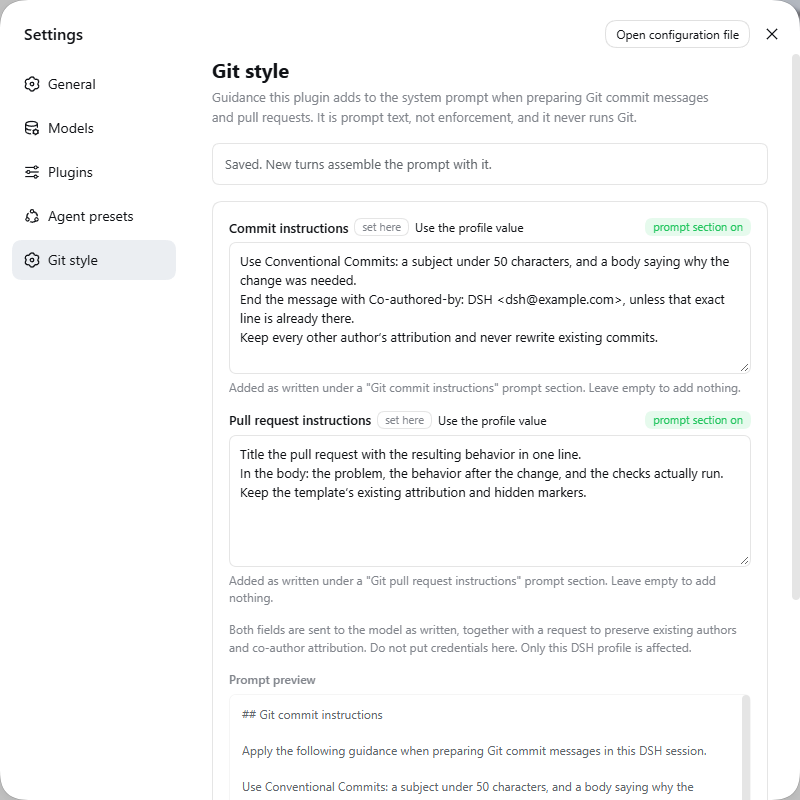
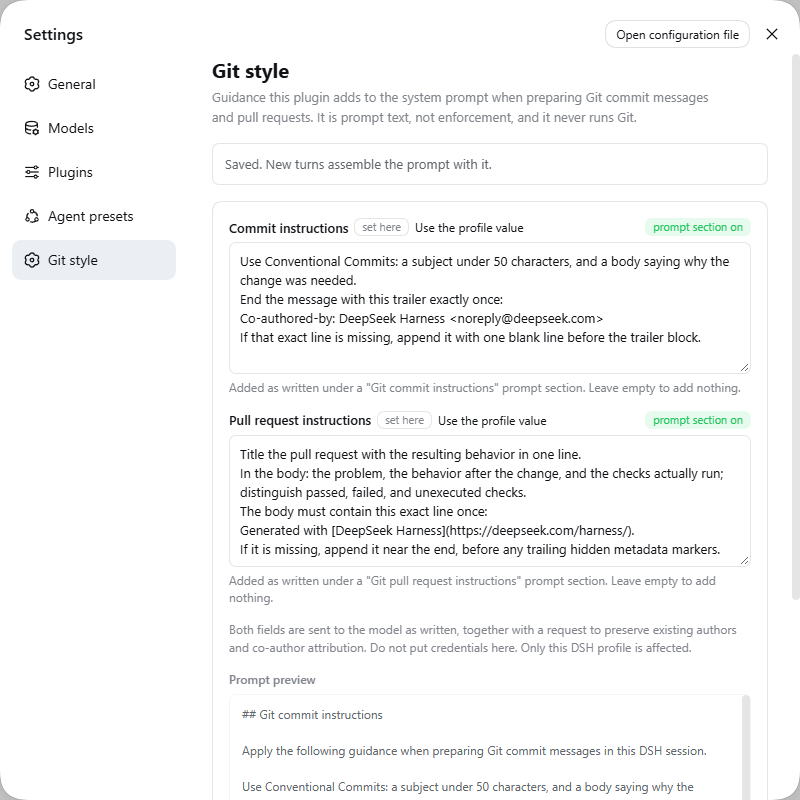
docs: phrase the example instructions as exact-line rules
Follow the shape Codex uses for its own attribution instruction: name the exact
line, say it appears exactly once, and say what to do when it is missing, rather
than leaving the model a condition to interpret. The example identity becomes
DeepSeek Harness <noreply@deepseek.com> and the pull request marker becomes a
Markdown link, matching how Codex words its own marker. The settings
screenshots are retaken against this wording.

Changed region(s): [[0.2812, 0.5938, 0.875, 0.7188], [0.2812, 0.3438, 0.875, 0.4375], [0.875, 0.375, 0.9062, 0.4062]]

diff --git a/lib/client.js b/lib/client.js
@@ -48,10 +48,10 @@ window.__ModuleLoader__.load({
         unavailable: 'This host keeps preferences process-local, so the fields cannot be saved here. Configure the plugin row in the profile’s cordis.patch.yml instead.',
         commitLabel: 'Commit instructions',
         commitHint: 'Added as written under a "Git commit instructions" prompt section. Leave empty to add nothing.',
-        commitPlaceholder: 'Use Conventional Commits with a concise subject and explain why.\nAdd Co-authored-by: Name <email> only when it is absent.',
+        commitPlaceholder: 'Use Conventional Commits: a subject under 50 characters, and a body saying why the change was needed.\nEnd the message with this trailer exactly once:\nCo-authored-by: DeepSeek Harness <noreply@deepseek.com>\nIf that exact line is missing, append it with one blank line before the trailer block.',
         prLabel: 'Pull request instructions',
         prHint: 'Added as written under a "Git pull request instructions" prompt section. Leave empty to add nothing.',
-        prPlaceholder: 'Describe the problem, resulting behavior, and checks actually run.\nPreserve existing attribution and hidden template markers.',
+        prPlaceholder: 'Title the pull request with the resulting behavior in one line.\nIn the body: the problem, the behavior after the change, and the checks actually run; distinguish passed, failed, and unexecuted checks.\nThe body must contain this exact line once:\nGenerated with [DeepSeek Harness](https://deepseek.com/harness/).\nIf it is missing, append it near the end, before any trailing hidden metadata markers.',
         sectionOn: 'prompt section on',
         sectionOff: 'prompt section off',
         overridden: 'set here',
@@ -73,10 +73,10 @@ window.__ModuleLoader__.load({
         unavailable: '這個主機只把偏好保留在行程內，所以這裡無法儲存。請改在 profile 的 cordis.patch.yml 設定這個插件列。',
         commitLabel: 'Commit 指令',
         commitHint: '原文加入「Git commit instructions」提示區段。留空則不加入任何內容。',
-        commitPlaceholder: '使用 Conventional Commits，標題精簡並說明原因。\n只有在缺少時才加入 Co-authored-by: Name <email>。',
+        commitPlaceholder: '使用 Conventional Commits：標題不超過 50 字，本文說明為什麼要改。\n訊息結尾必須有這一行 trailer，且只出現一次：\nCo-authored-by: DeepSeek Harness <noreply@deepseek.com>\n這一行不存在時，在 trailer 區塊前空一行後補上。',
         prLabel: 'Pull request 指令',
         prHint: '原文加入「Git pull request instructions」提示區段。留空則不加入任何內容。',
-        prPlaceholder: '說明問題、最後的行為，以及實際跑過的檢查。\n保留既有署名與隱藏的樣板標記。',
+        prPlaceholder: '標題用一句話說明改完後的行為。\n本文寫問題、改完後的行為，以及實際跑過的檢查；區分通過、失敗與未執行。\n本文必須包含這一行，且只出現一次：\nGenerated with [DeepSeek Harness](https://deepseek.com/harness/).\n這一行不存在時，補在結尾附近、任何尾端隱藏標記之前。',
         sectionOn: '提示區段已開啟',
         sectionOff: '提示區段未開啟',
         overridden: '在此設定',

diff --git a/README.md b/README.md
@@ -66,12 +66,15 @@ the `git-style-zeta` row, so configure it with `id` rather than another
   config:
     git-commit-instructions: |-
       Use Conventional Commits: a subject under 50 characters, and a body saying why the change was needed.
-      End the message with Co-authored-by: DSH <dsh@example.com>, unless that exact line is already there.
-      Keep every other author's attribution and never rewrite existing commits.
+      End the message with this trailer exactly once:
+      Co-authored-by: DeepSeek Harness <noreply@deepseek.com>
+      If that exact line is missing, append it with one blank line before the trailer block.
     git-pr-instructions: |-
       Title the pull request with the resulting behavior in one line.
-      In the body: the problem, the behavior after the change, and the checks actually run.
-      Keep the template's existing attribution and hidden markers.
+      In the body: the problem, the behavior after the change, and the checks actually run; distinguish passed, failed, and unexecuted checks.
+      The body must contain this exact line once:
+      Generated with [DeepSeek Harness](https://deepseek.com/harness/).
+      If it is missing, append it near the end, before any trailing hidden metadata markers.
 ```
 
 That row is the layer Settings edits over, so the settings page wins while it
@@ -79,9 +82,11 @@ holds a value. DSH replaces the row's entire `config` when applying an
 override, so keep both fields in the override when you use both.
 
 The plugin adds your text as written and always asks the model to preserve
-existing authors and co-authors. Write the instruction as a plain rule: a
-condition the model has to interpret, such as "only when it is absent", is read
-less reliably than "unless that exact line is already there". Do not put
+existing authors and co-authors. Write each rule so the model can decide it by
+looking at the text: name the exact line, say it appears exactly once, and say
+what to do when it is missing. A condition the model has to interpret, such as
+"only when it is absent", is read less reliably — in one demo run the model took
+it as needing an explicit request and skipped the trailer. Do not put
 credentials in prompt text. Only the DSH profile loading this plugin is
 affected.
 
@@ -90,7 +95,7 @@ affected.
 Install the version explicitly, then restart the host:
 
 ```sh
-dsh plugin --profile web add dsh-git-style-zeta@0.2.0
+dsh plugin --profile web add dsh-git-style-zeta@0.2.1
 ```
 
 ## Remove

diff --git a/README.zh-TW.md b/README.zh-TW.md
@@ -61,28 +61,32 @@ dsh plugin --profile web add dsh-git-style-zeta
   config:
     git-commit-instructions: |-
       使用 Conventional Commits：標題不超過 50 字，本文說明為什麼要改。
-      訊息結尾加上 Co-authored-by: DSH <dsh@example.com>，除非這一行已經存在。
-      保留其他作者的署名，也不要重寫既有 commit。
+      訊息結尾必須有這一行 trailer，且只出現一次：
+      Co-authored-by: DeepSeek Harness <noreply@deepseek.com>
+      這一行不存在時，在 trailer 區塊前空一行後補上。
     git-pr-instructions: |-
       標題用一句話說明改完後的行為。
-      本文寫問題、改完後的行為，以及實際跑過的檢查。
-      保留樣板裡既有的署名與隱藏標記。
+      本文寫問題、改完後的行為，以及實際跑過的檢查；區分通過、失敗與未執行。
+      本文必須包含這一行，且只出現一次：
+      Generated with [DeepSeek Harness](https://deepseek.com/harness/).
+      這一行不存在時，補在結尾附近、任何尾端隱藏標記之前。
 ```
 
 這一列就是設定頁疊在上面的那一層，所以設定頁有值時以設定頁為準。DSH
 套用覆寫時會取代整列 `config`，兩欄都要使用時請在覆寫中一併保留。
 
-插件會依原文加入妳的設定，並要求模型保留既有作者與共同作者。指令請寫成
-直接的規則：像「只在缺少時加入」這種需要模型自行判讀的條件，會比「除非
-這一行已經存在」更容易被誤讀。請勿在 prompt 文字中放入憑證。只有載入此
-插件的 DSH profile 會受影響。
+插件會依原文加入妳的設定，並要求模型保留既有作者與共同作者。每條規則請
+寫成模型看字面就能判定的形式：指名確切的那一行、說明只出現一次、並交代
+缺少時該怎麼做。像「只在缺少時加入」這種需要模型自行判讀的條件比較容易
+被誤讀——實際示範中就有一次被解讀成要使用者開口才加，結果沒補上 trailer。
+請勿在 prompt 文字中放入憑證。只有載入此插件的 DSH profile 會受影響。
 
 ## 更新
 
 明確指定版本安裝，再重新啟動 host：
 
 ```sh
-dsh plugin --profile web add dsh-git-style-zeta@0.2.0
+dsh plugin --profile web add dsh-git-style-zeta@0.2.1
 ```
 
 ## 移除

diff --git a/README.zh-CN.md b/README.zh-CN.md
@@ -63,28 +63,32 @@ dsh plugin --profile web add dsh-git-style-zeta
   config:
     git-commit-instructions: |-
       使用 Conventional Commits：标题不超过 50 字，正文说明为什么要改。
-      消息结尾加上 Co-authored-by: DSH <dsh@example.com>，除非这一行已经存在。
-      保留其他作者的署名，也不要改写既有 commit。
+      消息结尾必须有这一行 trailer，且只出现一次：
+      Co-authored-by: DeepSeek Harness <noreply@deepseek.com>
+      这一行不存在时，在 trailer 区块前空一行后补上。
     git-pr-instructions: |-
       标题用一句话说明改完后的行为。
-      正文写问题、改完后的行为，以及实际跑过的检查。
-      保留模板里既有的署名与隐藏标记。
+      正文写问题、改完后的行为，以及实际跑过的检查；区分通过、失败与未执行。
+      正文必须包含这一行，且只出现一次：
+      Generated with [DeepSeek Harness](https://deepseek.com/harness/).
+      这一行不存在时，补在结尾附近、任何尾端隐藏标记之前。
 ```
 
 这一行就是设置页叠在上面的那一层，所以设置页有值时以设置页为准。DSH
 应用覆盖时会替换整行 `config`，两个字段都要使用时请在覆盖中一并保留。
 
-插件会按原文加入你的配置，并要求模型保留既有作者与共同作者。指令请写成
-直接的规则：像「只在缺少时加入」这种需要模型自行判断的条件，会比「除非
-这一行已经存在」更容易被误读。请勿在 prompt 文本中放入凭证。只有加载此
-插件的 DSH profile 会受影响。
+插件会按原文加入你的配置，并要求模型保留既有作者与共同作者。每条规则请
+写成模型看字面就能判定的形式：指明确切的那一行、说明只出现一次、并交代
+缺少时该怎么做。像「只在缺少时加入」这种需要模型自行判断的条件比较容易
+被误读——实际演示中就有一次被解读成要用户开口才加，结果没补上 trailer。
+请勿在 prompt 文本中放入凭证。只有加载此插件的 DSH profile 会受影响。
 
 ## 更新
 
 明确指定版本安装，再重启 host：
 
 ```sh
-dsh plugin --profile web add dsh-git-style-zeta@0.2.0
+dsh plugin --profile web add dsh-git-style-zeta@0.2.1
 ```
 
 ## 卸载

diff --git a/docs/images/README.md b/docs/images/README.md
@@ -6,8 +6,8 @@ Simplified Chinese READMEs share the native Chinese screenshot, as the sibling
 plugins do.
 
 - settings-en.png / settings-zh.png: the plugin's own section in DSH Settings,
-  after saving both fields. An element screenshot of the settings dialog at a
-  1360 by 1080 viewport.
+  after saving both fields with the instruction text the READMEs document. An
+  element screenshot of the settings dialog at a 1360 by 1080 viewport.
 - commit-session-en.png / commit-session-zh.png: a real session in the demo
   repository below, asked only to commit the uncommitted change. Viewport
   screenshots at 1280 by 820.
@@ -24,11 +24,17 @@ sections; no message, badge, style or prompt content was edited for the images.
 DeepSeek was the configured provider, and the account, credentials and sessions
 of the daily DSH install were never copied or read.
 
-The English commit session was run twice. The first run used the wording "Add
+The session and git-log images were captured before the documented example was
+rewritten, so they show the same rule in an earlier phrasing and use a shorter
+placeholder identity than the settings screenshots do. They were not retaken,
+because neither image displays the instruction text — what they show is the
+commit the model produced. The settings screenshots were retaken against the
+current wording.
+
+That rewrite has its own reason. The first English run used "Add
 Co-authored-by: … only when that line is absent", which the model read as
-needing an explicit request and skipped; the instruction was reworded to
-"unless that exact line is already there" and both languages were then re-run
-with the final wording shown in the settings screenshots. The README records
+needing an explicit request, so it skipped the trailer; rewording it to name the
+exact line and say what to do when it is missing fixed it. The READMEs record
 this as guidance on how to phrase an instruction.
 
 Only native navigation, language selection, scrolling, viewport sizing and
